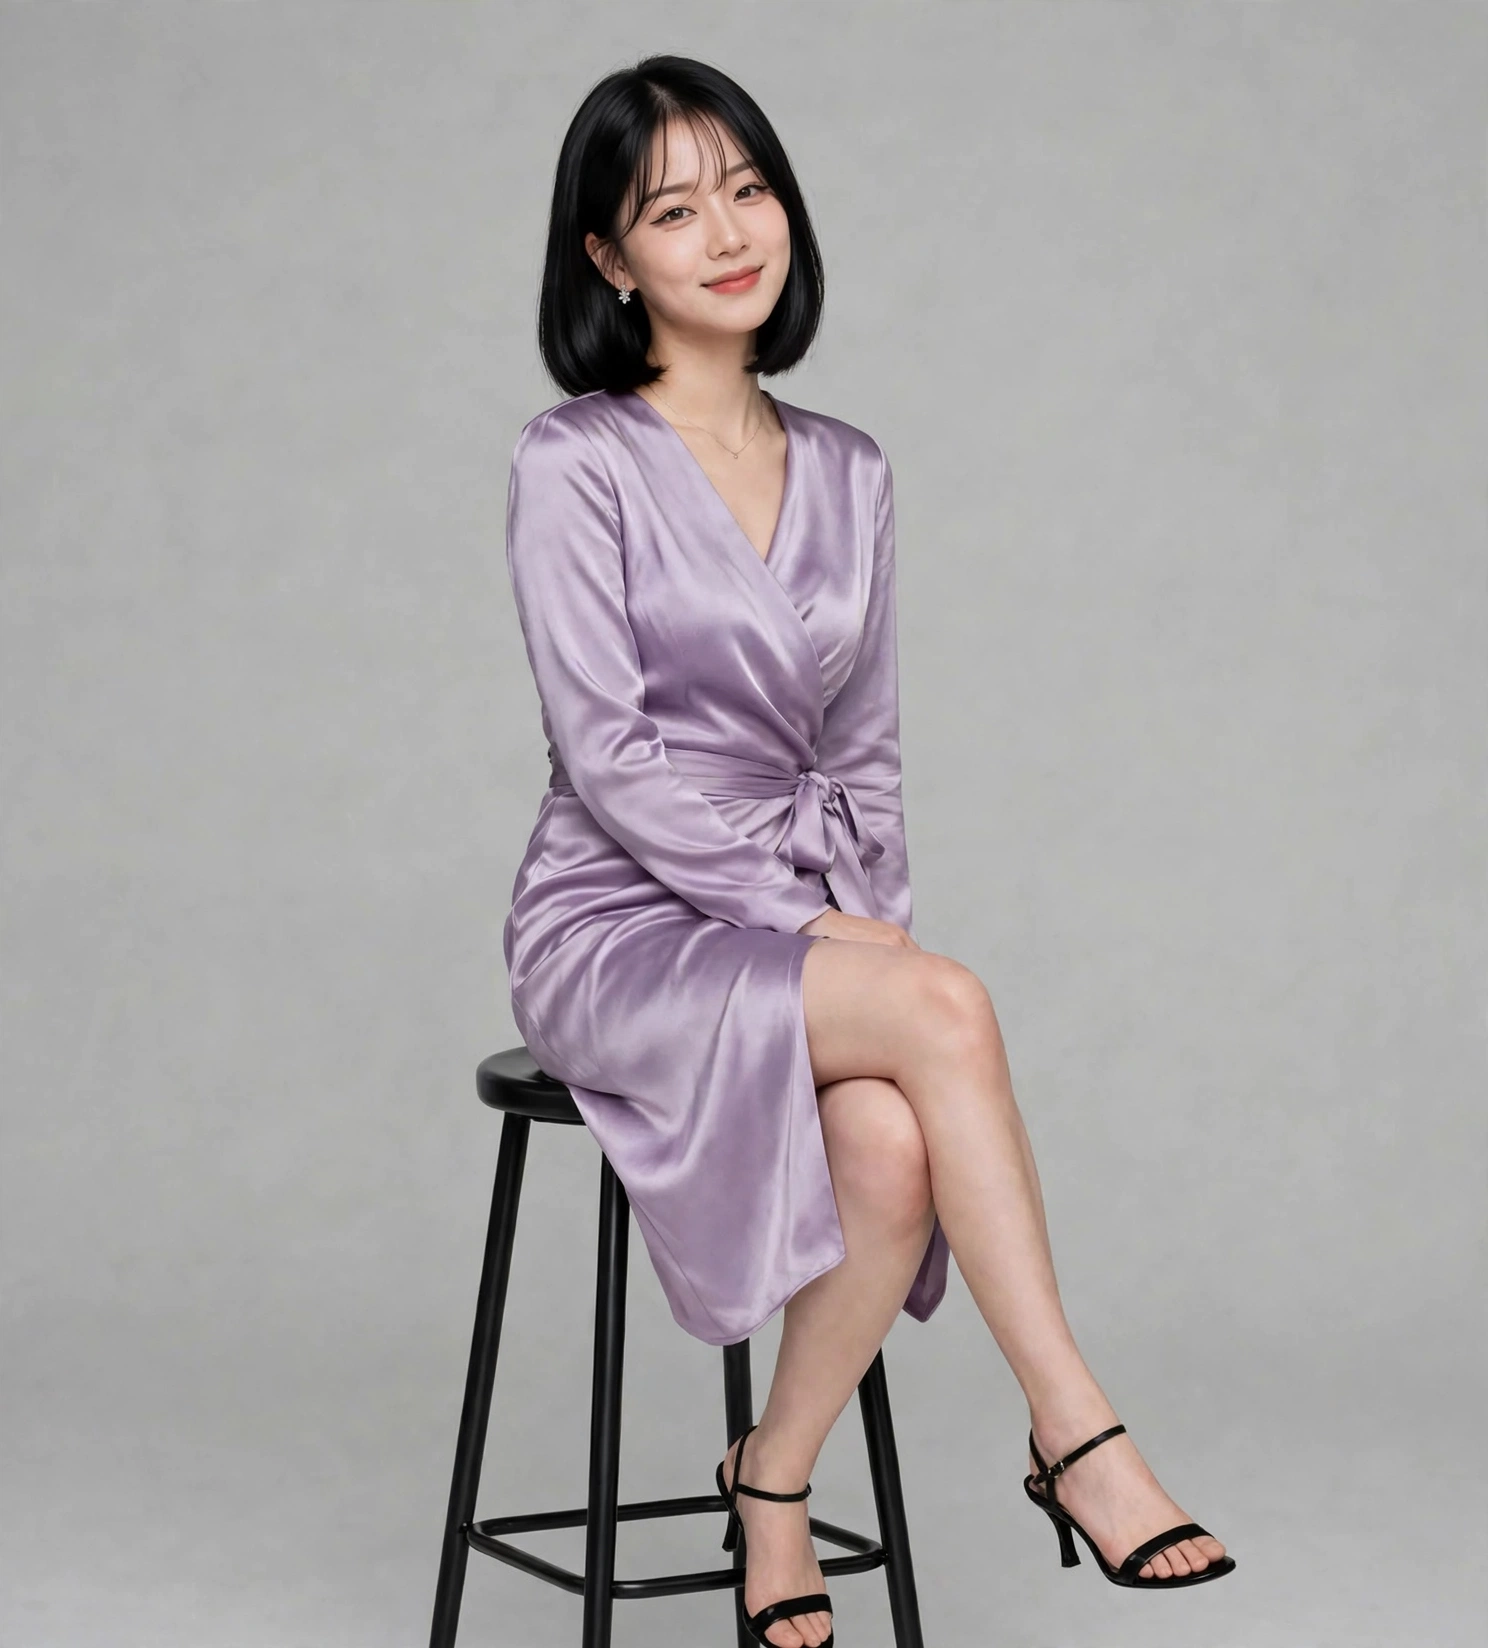
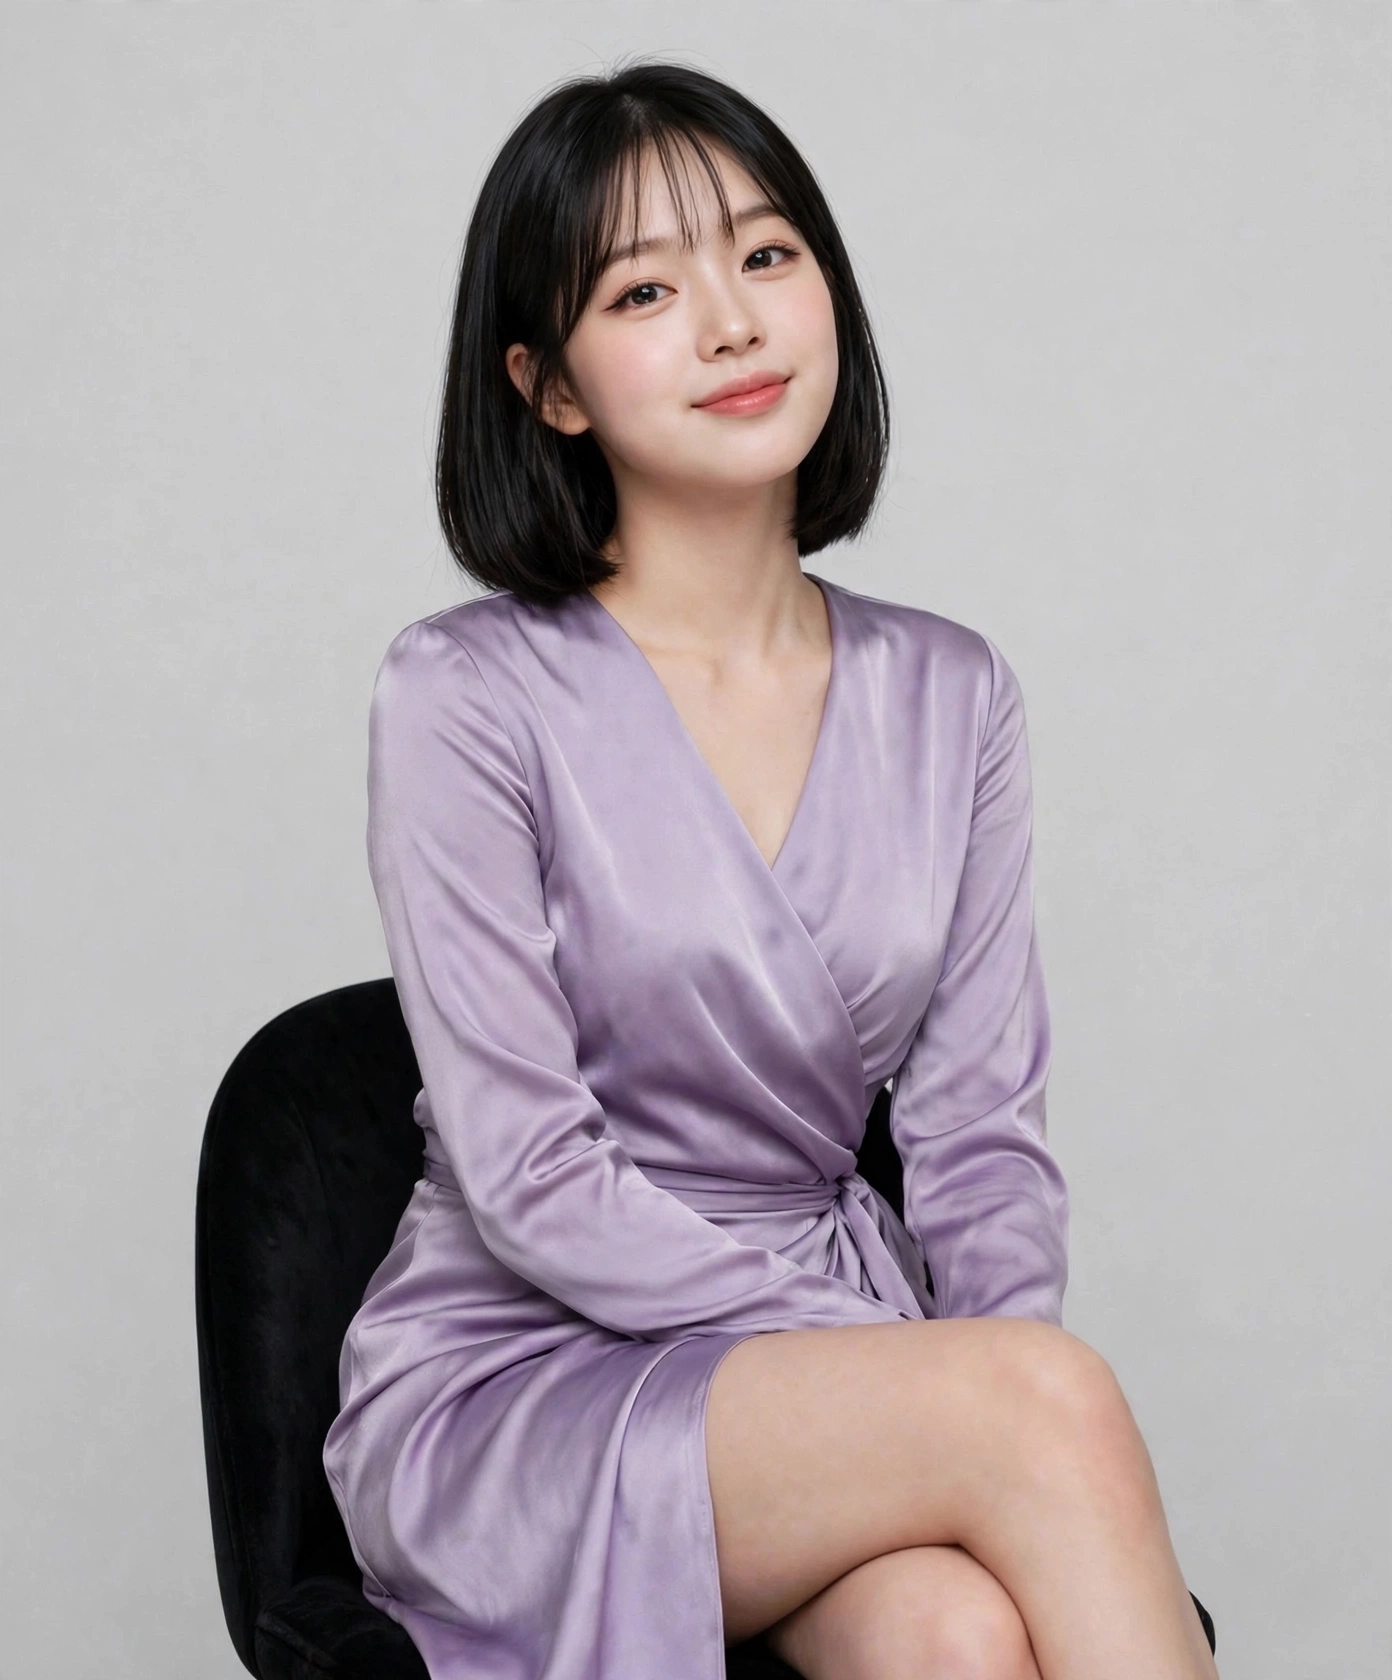
Refill Sena studio2 9 + life 1-3 with v2 face (v76)

diff --git a/index.html b/index.html
@@ -42,7 +42,7 @@
 <body>
 <header>
   <h1 id="album-title">Mia's Album</h1>
-  <p id="album-sub">확정 얼굴 기준의 컷 모음 (총 165컷) · 버전 75</p>
+  <p id="album-sub">확정 얼굴 기준의 컷 모음 (총 165컷) · 버전 76</p>
   <div class="char-switch" role="tablist" aria-label="캐릭터 선택">
     <button type="button" class="char-btn active" id="btn-mia">Mia</button>
     <button type="button" class="char-btn" id="btn-ciel">Ciel</button>
@@ -439,7 +439,7 @@
   <div class="grid">
     <div class="card" data-cap="Sena 일상 1 — 도서관, 책 펴고 미소"><img src="img/sena-life-1.webp" alt="Sena 일상 1"><div class="cap">도서관</div></div>
     <div class="card" data-cap="Sena 일상 2 — 서점, 책 읽는 중"><img src="img/sena-life-2.webp" alt="Sena 일상 2"><div class="cap">서점</div></div>
-    <div class="card" data-cap="Sena 일상 3 — 카페 테라스, 아이스커피 웃음"><img src="img/sena-life-3.webp" alt="Sena 일상 3"><div class="cap">카페 테라스</div></div>
+    <div class="card" data-cap="Sena 일상 3 — 카페 테라스, 아이스커피 미소"><img src="img/sena-life-3.webp" alt="Sena 일상 3"><div class="cap">카페 테라스</div></div>
     <div class="card" data-cap="Sena 일상 4 — 카페 창가, 턱 괴고 창밖"><img src="img/sena-life-4.webp" alt="Sena 일상 4"><div class="cap">카페 창가</div></div>
     <div class="card" data-cap="Sena 일상 5 — 서점, 크림 골지 원피스 책 꺼내는 중"><img src="img/sena-life-5.webp" alt="Sena 일상 5"><div class="cap">서점 · 크림 골지</div></div>
     <div class="card" data-cap="Sena 일상 6 — 마트 장보기, 흰 티와 펜슬 토마토 고르기"><img src="img/sena-life-6.webp" alt="Sena 일상 6"><div class="cap">마트 · 흰 티 펜슬</div></div>
@@ -513,15 +513,15 @@
     btnSena.classList.toggle('active', name === 'sena');
     if (name === 'ciel'){
       albumTitle.textContent = "Ciel's Album";
-      albumSub.textContent = '단발 귀여운상 기준의 컷 모음 (총 4컷) · 버전 75';
+      albumSub.textContent = '단발 귀여운상 기준의 컷 모음 (총 4컷) · 버전 76';
       document.title = "Ciel's Album";
     } else if (name === 'sena'){
       albumTitle.textContent = "Sena's Album";
-      albumSub.textContent = '시크한 단발 귀염상 기준의 컷 모음 (총 32컷) · 버전 75';
+      albumSub.textContent = '시크한 단발 귀염상 기준의 컷 모음 (총 32컷) · 버전 76';
       document.title = "Sena's Album";
     } else {
       albumTitle.textContent = "Mia's Album";
-      albumSub.textContent = '확정 얼굴 기준의 컷 모음 (총 165컷) · 버전 75';
+      albumSub.textContent = '확정 얼굴 기준의 컷 모음 (총 165컷) · 버전 76';
       document.title = "Mia's Album";
     }
     cards = allCards.filter(c => c.offsetParent !== null);

diff --git a/sw.js b/sw.js
@@ -1,4 +1,4 @@
-const CACHE = 'influencer-album-v75';
+const CACHE = 'influencer-album-v76';
 const CORE = ['./', './index.html', './manifest.webmanifest', './icon-192.png', './icon-512.png',
   './img/face-anchor.webp',
   './img/studio-1.webp', './img/studio-2.webp', './img/studio-3.webp', './img/studio-4.webp',

diff --git a/HANDOFF.md b/HANDOFF.md
@@ -126,6 +126,7 @@ push 후 1~2분 기다리고 라이브에서 직접 확인한다. 확인 전에 
 - **캐릭터**: Sena (2026-11-12 이름 확정). 사용자가 준 ChatGPT 공유 이미지(테니스 코트 컷)에서 출발한 캐릭터. 화면 표기 금지(Mia와 동일 — 나이·키 미정·미표기).
 - **얼굴 원본 참조**: `~/workspace/imagine_media/friend-tennis-ref.webp` (긴 머리·큰 흰 리본 버전의 원본 얼굴).
 - **얼굴 전면 교체 (2026-11-12, v2)**: 기존 세나가 미아만큼 자연스럽지 않다는 사용자 판단으로, 미아와 같은 절차(얼굴 후보 → 확정 → 전신 마스터 → 크롭)로 재구축했다. 아이돌 뷰티샷 결 얼굴 후보 A·B·C·D 중 사용자가 A와 C를 1차 승인, 같은 옷 전신 테스트를 거쳐 **C(삐죽한 입술, 또렷한 눈매)** 로 최종 확정. 마스터 파일: 얼굴 원본 `~/workspace/imagine_media/sena-master-face.webp`, 전신 마스터 `sena-master-full.webp`. **기존 29컷은 전부 v1 얼굴 제작분**이며 새 얼굴 재제작 여부는 사용자 지시 대기.
+- **구도 호평 (2026-11-12)**: 하이앵글에서 올려다보는 컷(스튜디오2 7 아이보리 새틴)이 사용자 호평 — 세나 컷에 이 구도를 가끔 섞을 것.
 - **표정 규칙 (2026-11-12 사용자 지시)**: 세나 컷에서 **손가락 하트·입 벌린 큰 웃음·볼 콕 찌르기 포즈는 쓰지 않는다** — 표정은 잔잔한 미소·윙크·도도·놀람·삐죽 범위에서 다양하게 간다.
 - **앵커 구성 (v2, 2026-11-12)**: 앨범 표시용 `img/sena-face-anchor.webp`는 전신 마스터(검정 페플럼 정면 서 있는 컷 = C 얼굴 전신 테스트 1번)로 교체했다. **생성용 타이트 얼굴 크롭은 `~/workspace/imagine_media/sena-face-crop.webp`** — v2 마스터 얼굴에서 새로 딴 크롭이다(구 v1 크롭은 `sena-face-crop-v1-backup.webp`로 보관). 세나를 새로 만들 때는 이 v2 크롭을 identity reference로 걸 것.
 - **얼굴 결**: 카페 친구(이름 미정)보다 눈매가 또렷하고 살짝 시크한 귀염상 — 또렷한 아이라인, 자연스러운 매트 입술, 삐진 표정이 잘 어울림.
